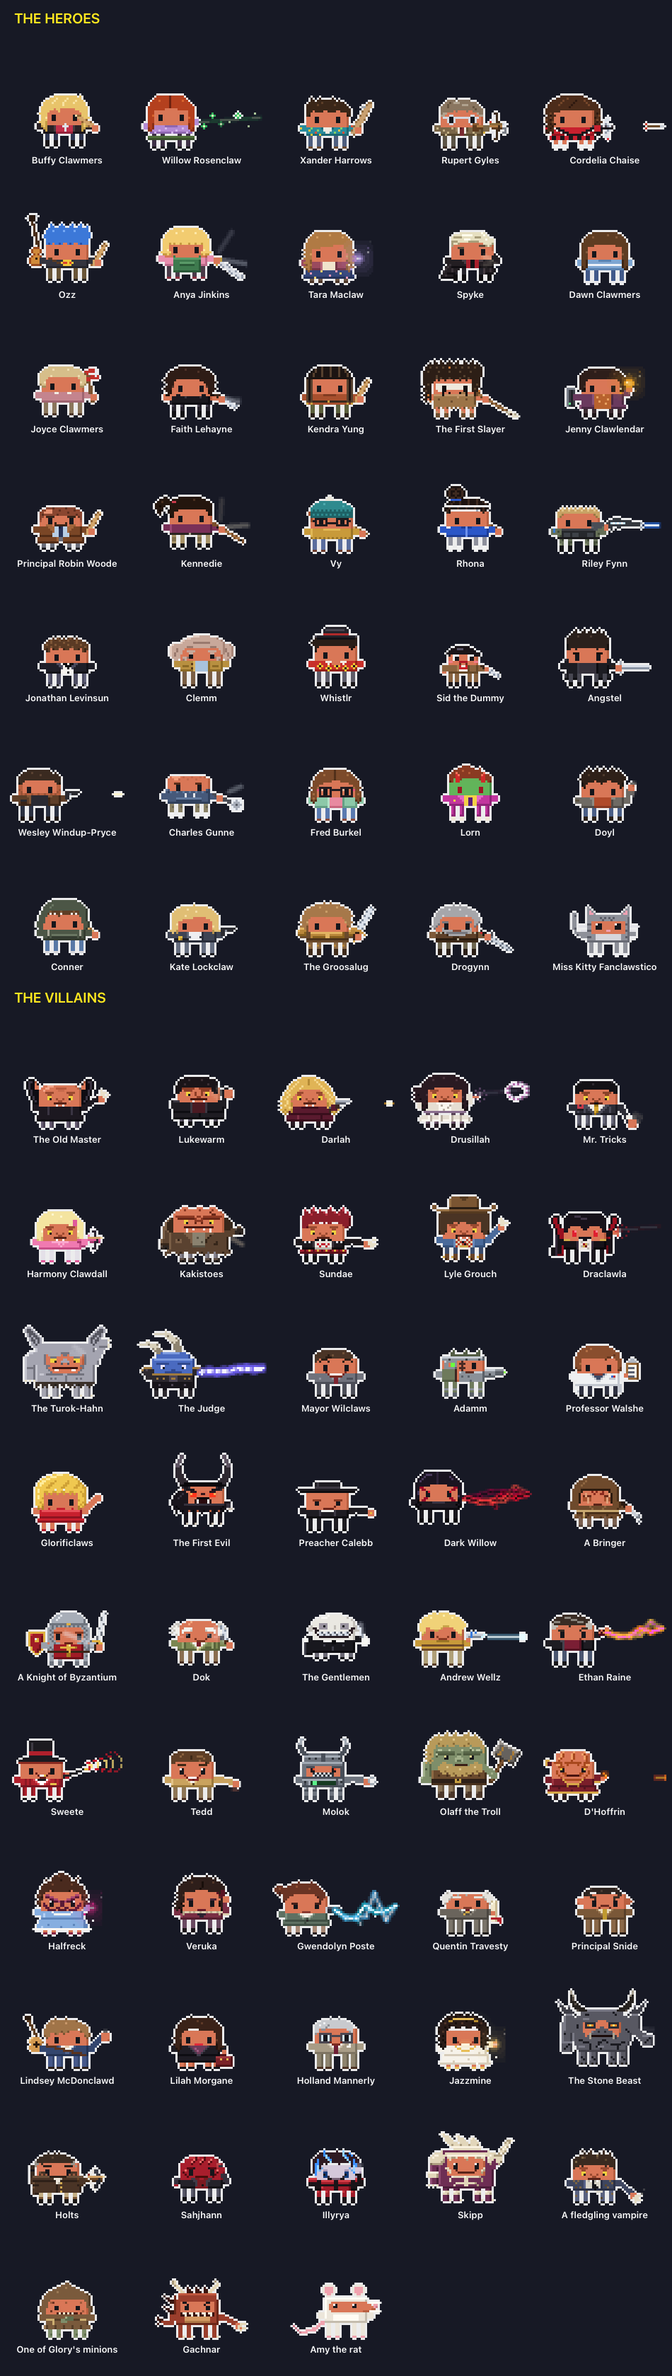
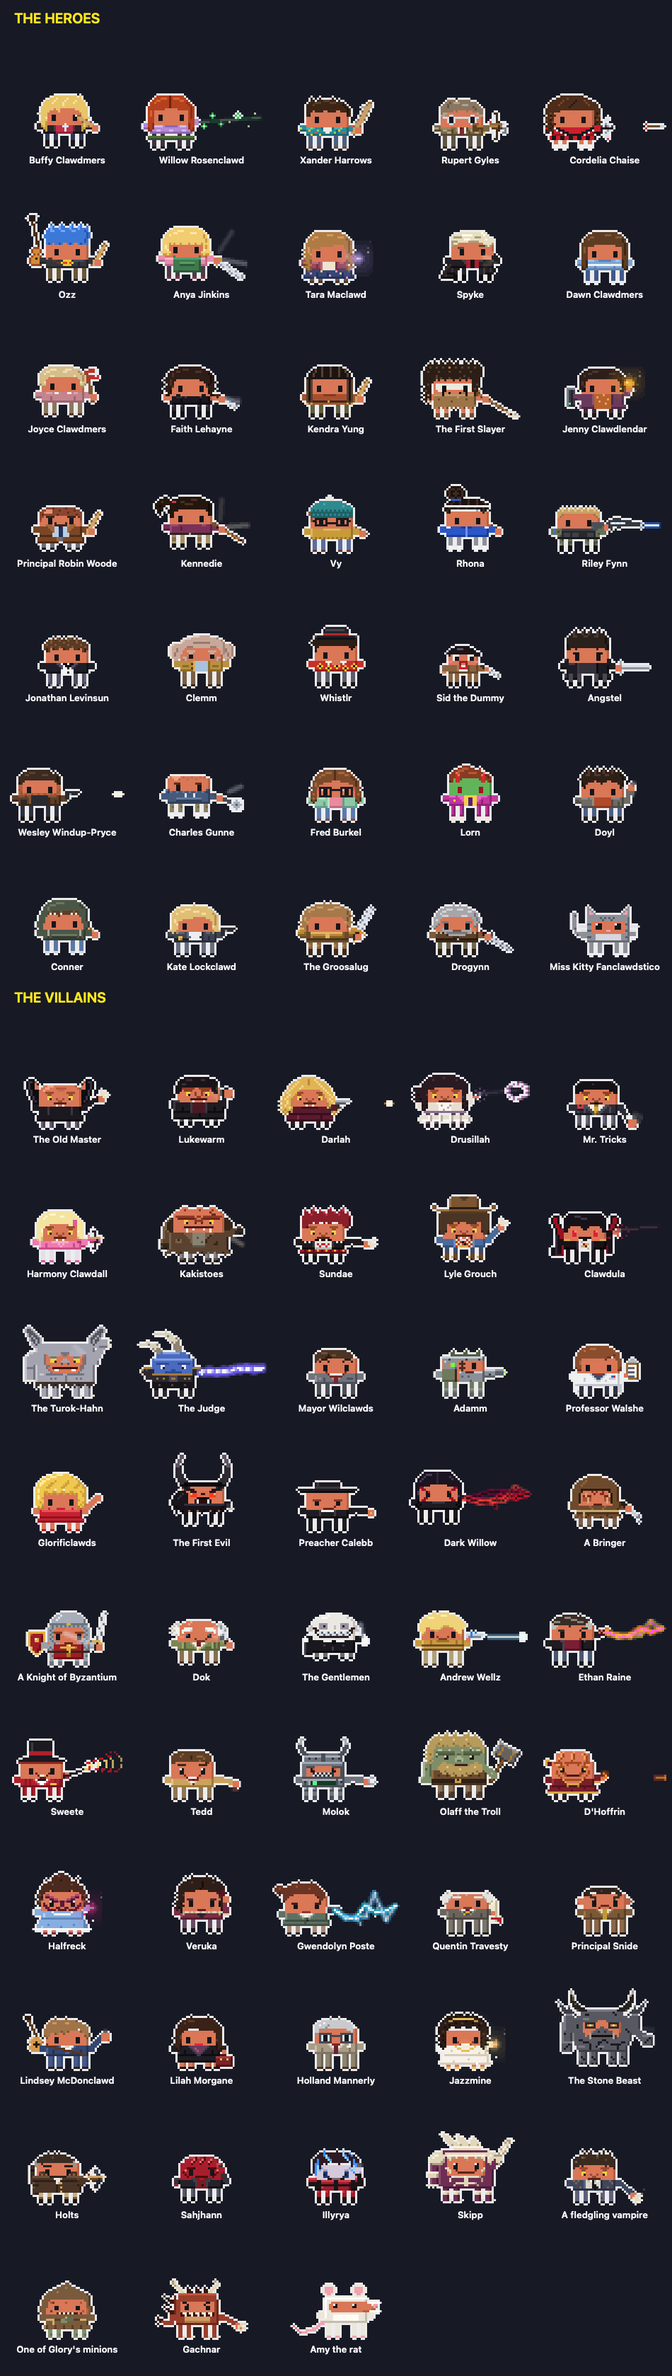
docs: every name says clawd, and the Sunnydale sign in pixels
Clawd Clash 4.0.0 gave the "claw" puns their "d": Buffy, Dawn and Joyce
Clawdmers, Willow Rosenclawd, Tara Maclawd, Jenny Clawdlendar, Kate
Lockclawd, Miss Kitty Fanclawdstico, Mayor Wilclawds, Glorificlawds, and
Draclawla is Clawdula. The README, changelog and llms.txt follow, alt texts
included. The roster, desktop and Tabula Rasa pictures are rendered again
with the new names, and the locations sheet with the pixel Welcome to
Sunnydale sign.

diff --git a/README.md b/README.md
@@ -1,5 +1,5 @@
 <p align="center">
-  <img src="docs/icon.png" width="180" alt="The Clawd Slayer icon: Buffy Clawmers with a wooden stake against the Old Master in Restfield Cemetery under a full moon">
+  <img src="docs/icon.png" width="180" alt="The Clawd Slayer icon: Buffy Clawdmers with a wooden stake against the Old Master in Restfield Cemetery under a full moon">
 </p>
 
 <h1 align="center">Clawd Slayer</h1>
@@ -24,7 +24,7 @@ https://github.com/user-attachments/assets/dd9213e1-7192-4018-b169-ea451f6a146b
 > **Clawd Slayer is a universe of [Clawd Clash](https://github.com/rodclemen/clawd-clash).** Same crew, same fights, more universes to switch to. This page shows off the Clawd Slayer universe; see [Get it](#get-it) to install.
 
 <p align="center">
-  <img src="docs/desktop-clawd-slayer.png" alt="Four Claudes and five agents fighting across the bottom of the screen: the Old Master against Buffy Clawmers, Spyke against Draclawla, with Willow Rosenclaw, Drusillah, Xander Harrows, a fledgling vampire and Rupert Gyles at work as agents">
+  <img src="docs/desktop-clawd-slayer.png" alt="Four Claudes and five agents fighting across the bottom of the screen: the Old Master against Buffy Clawdmers, Spyke against Clawdula, with Willow Rosenclawd, Drusillah, Xander Harrows, a fledgling vampire and Rupert Gyles at work as agents">
 </p>
 
 ---
@@ -71,31 +71,31 @@ Run two Claudes and they square off. Every character is Clawd (Claude Code's lit
 
 Some of them don't fight at all: Dawn, Jonathan, Clemm, Whistlr, Fred, Lorn, the Mayor, Professor Walshe, the First Evil, Quentin Travesty, Principal Snide, Lilah Morgane and Holland Mannerly. The armoured ones (the Judge, the Mayor after the Ascension ritual, Adamm, Preacher Calebb, Tedd, the Knight of Byzantium, Molok, Olaff, the Turok-Hahn, the Stone Beast and more) send shots ricocheting off.
 
-**Arch-enemies face off first.** Whenever a pair is on stage together, everyone else shuffles aside so the two of them can have it out: Buffy and the Old Master, Willow and Glorificlaws, Xander and Dark Willow, Giles and Ethan Raine, Cordelia and Harmony, Ozz and Veruka, Anya and Olaff, Spyke and Draclawla, Faith and Kakistoes, Kendra and Drusillah, Joyce and Tedd, Riley and Adamm, Tara and the Gentlemen, the First Slayer and the First Evil, the Potentials and the Turok-Hahn, Angstel and Holts, Wesley and Lilah, Fred and Illyrya, and more. Angstel and Spyke never lead two sessions back to back.
+**Arch-enemies face off first.** Whenever a pair is on stage together, everyone else shuffles aside so the two of them can have it out: Buffy and the Old Master, Willow and Glorificlawds, Xander and Dark Willow, Giles and Ethan Raine, Cordelia and Harmony, Ozz and Veruka, Anya and Olaff, Spyke and Clawdula, Faith and Kakistoes, Kendra and Drusillah, Joyce and Tedd, Riley and Adamm, Tara and the Gentlemen, the First Slayer and the First Evil, the Potentials and the Turok-Hahn, Angstel and Holts, Wesley and Lilah, Fred and Illyrya, and more. Angstel and Spyke never lead two sessions back to back.
 
 **The school bus.** When an agent is done, it walks off, unless someone comes to pick it up. The yellow school bus from "Chosen" comes for the Scooby Gang, the Slayers and the Potentials, and its folding door opens onto the steps; Spyke's black DeSoto, its windows painted out and papered over, comes for the vampires; Angstel's black convertible, top down, comes for Angel Investigations. Everyone else walks.
 
 <p align="center">
-  <img src="docs/school-bus.png" alt="At 1630 Revello Drive the yellow school bus pulls up beside Willow Rosenclaw, its door folds open, Willow climbs aboard and it drives off" width="900">
+  <img src="docs/school-bus.png" alt="At 1630 Revello Drive the yellow school bus pulls up beside Willow Rosenclawd, its door folds open, Willow climbs aboard and it drives off" width="900">
 </p>
 
 **Tabula Rasa.** When a session led by one of the eight from that episode (Buffy, Willow, Xander, Giles, Anya, Tara, Spyke or Dawn) compacts its context, Willow's forgetting spell goes off: a crystal glows at their feet and puffs pink smoke, a big "?" rises over their head with who they think they are (*"JOAN?"*, *"RANDY?"*, *"ALEX?"* or *"WHO AM I?"*), then the crystal cracks underfoot and it all comes back.
 
 <p align="center">
-  <img src="docs/tabula-rasa.png" alt="In the Magic Box you type /compact in Buffy Clawmers's session: a crystal glows at Buffy's feet, a JOAN? caption and a big question mark rise overhead, then the crystal cracks and the memory comes back" width="900">
+  <img src="docs/tabula-rasa.png" alt="In the Magic Box you type /compact in Buffy Clawdmers's session: a crystal glows at Buffy's feet, a JOAN? caption and a big question mark rise overhead, then the crystal cracks and the memory comes back" width="900">
 </p>
 
-**The First Evil's guises.** Now and then the First Evil becomes one of the Big Bads before it for a few seconds, whole, still floating: the Old Master, the Mayor, Glorificlaws or Adamm.
+**The First Evil's guises.** Now and then the First Evil becomes one of the Big Bads before it for a few seconds, whole, still floating: the Old Master, the Mayor, Glorificlawds or Adamm.
 
 <p align="center">
-  <img src="docs/first-evil.png" alt="In the Hellmouth the First Evil faces Buffy Clawmers, then wears the Old Master, the Mayor and Glory in turn" width="900">
+  <img src="docs/first-evil.png" alt="In the Hellmouth the First Evil faces Buffy Clawdmers, then wears the Old Master, the Mayor and Glory in turn" width="900">
 </p>
 
 **Hush.** While the Gentlemen are on stage, nobody has a voice: every speech bubble comes up empty.
 
 **The full moon.** On nights when the real moon is full, Ozz and Veruka stay wolves all night.
 
-**The Mayor's wet wipe.** After every fight on stage ends, Mayor Wilclaws takes out a packet of wet wipes and cleans up, finger by finger (*"Gosh!"*).
+**The Mayor's wet wipe.** After every fight on stage ends, Mayor Wilclawds takes out a packet of wet wipes and cleans up, finger by finger (*"Gosh!"*).
 
 **Heroes against villains.** Run Claude Code alongside another AI and they pick sides: Claude Code plays the heroes, the others the villains, and each one's agents fight for their own side. The outline colour round each character tells you which AI it belongs to.
 
@@ -103,9 +103,9 @@ Some of them don't fight at all: Dawn, Jonathan, Clemm, Whistlr, Fred, Lorn, the
 
 48 villains and 35 heroes (plus one rare guest), from Buffy the Vampire Slayer and Angel. Nearly all of them can be a session (drawn large) or an agent (drawn small); Miss Kitty and the small fry only ever come as agents. Every one of them has a signature move, and most have an arch-enemy.
 
-**The heroes**: the Scooby Gang: Buffy Clawmers (flips the stake up, it turns over twice in the air, and catches it without looking, *"Beep me if the apocalypse comes."*), Willow Rosenclaw (a pencil floats up off one palm and spins, *"Resolve face!"*), Xander Harrows (lets the 2×4 drop and draws a rocket launcher from behind the back, *"I laugh in the face of danger!"*), Rupert Gyles (polishes the glasses, squinting, *"Oh, dear Lord."*), Cordelia Chaise (a vision hits in a white flash, *"Hel-lo?"*), Ozz (wolfs out for a second, *"Hey."*), Anya Jinkins (counts the takings, dollar signs floating up, *"Bunnies!"*), Tara Maclaw (a little ball of lavender light rises out of cupped hands), Spyke (throws a punch and the chip zaps, *"Bloody hell!"*), Dawn Clawmers (the Key's green energy flickers through) and Joyce Clawmers (arms folded, a mum's look, *"Have you tried not being a Slayer?"*); the Slayers, Watchers and Potentials: Faith Lehayne (twirls the Mayor's knife, *"Five by five."*), Kendra Yung (holds Mr. Pointy up proudly, *"Mr. Pointy."*), the First Slayer (crouches low with the spear while sand swirls, *"No friends. Just the kill."*), Jenny Clawlendar (holds up the Orb of Thessulah, and it slowly lights), Principal Robin Woode (a stake slides out of the sleeve and back up it), Kennedie (blows the drill whistle, clipboard up), Vy (pulls the woolly hat down shyly, then peeks back out) and Rhona (rolls the eyes and throws both arms out: so unfair); the Sunnydale friends: Riley Fynn (stands to attention and salutes, *"Ma'am."*), Jonathan Levinsun (the Class Protector umbrella pops open), Clemm (munches cheesy snacks), Whistlr (flips a coin, a knowing grin) and Sid the Dummy (turns the head right round, all the way); Angel Investigations: Angstel (a felt puppet from "Smile Time" for a second, *"We help the helpless."*), Wesley Windup-Pryce (strikes a pose, pistol to the sky, *"Rogue demon hunter!"*), Charles Gunne (spins the hubcap axe), Fred Burkel (scribbles an equation in the air), Lorn (sings karaoke), Doyl (the half-Brachen face shows, blue and spiky), Conner (springs up and lands in a crouch), Kate Lockclaw (holds up the badge), the Groosalug (the sword thrust up over the head, *"Princess!"*) and Drogynn (just stands the watch). Miss Kitty Fanclawstico, Willow and Tara's kitten, pounces on a ball of red wool. And now and then HEM turns up in a Watcher's tweed jacket and tie, with a wooden stake.
+**The heroes**: the Scooby Gang: Buffy Clawdmers (flips the stake up, it turns over twice in the air, and catches it without looking, *"Beep me if the apocalypse comes."*), Willow Rosenclawd (a pencil floats up off one palm and spins, *"Resolve face!"*), Xander Harrows (lets the 2×4 drop and draws a rocket launcher from behind the back, *"I laugh in the face of danger!"*), Rupert Gyles (polishes the glasses, squinting, *"Oh, dear Lord."*), Cordelia Chaise (a vision hits in a white flash, *"Hel-lo?"*), Ozz (wolfs out for a second, *"Hey."*), Anya Jinkins (counts the takings, dollar signs floating up, *"Bunnies!"*), Tara Maclawd (a little ball of lavender light rises out of cupped hands), Spyke (throws a punch and the chip zaps, *"Bloody hell!"*), Dawn Clawdmers (the Key's green energy flickers through) and Joyce Clawdmers (arms folded, a mum's look, *"Have you tried not being a Slayer?"*); the Slayers, Watchers and Potentials: Faith Lehayne (twirls the Mayor's knife, *"Five by five."*), Kendra Yung (holds Mr. Pointy up proudly, *"Mr. Pointy."*), the First Slayer (crouches low with the spear while sand swirls, *"No friends. Just the kill."*), Jenny Clawdlendar (holds up the Orb of Thessulah, and it slowly lights), Principal Robin Woode (a stake slides out of the sleeve and back up it), Kennedie (blows the drill whistle, clipboard up), Vy (pulls the woolly hat down shyly, then peeks back out) and Rhona (rolls the eyes and throws both arms out: so unfair); the Sunnydale friends: Riley Fynn (stands to attention and salutes, *"Ma'am."*), Jonathan Levinsun (the Class Protector umbrella pops open), Clemm (munches cheesy snacks), Whistlr (flips a coin, a knowing grin) and Sid the Dummy (turns the head right round, all the way); Angel Investigations: Angstel (a felt puppet from "Smile Time" for a second, *"We help the helpless."*), Wesley Windup-Pryce (strikes a pose, pistol to the sky, *"Rogue demon hunter!"*), Charles Gunne (spins the hubcap axe), Fred Burkel (scribbles an equation in the air), Lorn (sings karaoke), Doyl (the half-Brachen face shows, blue and spiky), Conner (springs up and lands in a crouch), Kate Lockclawd (holds up the badge), the Groosalug (the sword thrust up over the head, *"Princess!"*) and Drogynn (just stands the watch). Miss Kitty Fanclawdstico, Willow and Tara's kitten, pounces on a ball of red wool. And now and then HEM turns up in a Watcher's tweed jacket and tie, with a wooden stake.
 
-**The villains**: the vampires: the Old Master (presses both hands on the invisible barrier like a mime, *"Here endeth the lesson."*), Lukewarm (preaches, arms spread wide), Darlah (twirls two pistols), Drusillah (holds up Miss Edith and sways, *"Naming all the stars."*), Mr. Tricks (straightens the gold tie), Harmony Clawdall (the hair flip, *"Blondie Bear!"*), Kakistoes (stamps a hoof and the ground cracks), Sundae (snaps the Class Protector umbrella in two), Lyle Grouch (spins a lasso over the hat), Draclawla (turns to mist with two red eyes in it) and the Turok-Hahn (throws up its arms and roars); the Big Bads: the Judge (one blue hand crackles), Mayor Wilclaws (wet wipes, finger by finger, *"Gosh!"*), Adamm (the chest plates swing open on the glowing core), Professor Walshe (ticks off line after line on a clipboard), Glorificlaws (admires the shoes and flickers into Ben, *"I'm a god!"*), the First Evil (its face flickers through the Big Bads before it, *"From beneath you, it devours."*), Preacher Calebb (rolls up a sleeve and cracks the knuckles) and Dark Willow (the letters lift off a book's page and stream up the arms, *"Bored now."*); henchmen, rivals and monsters of the week: a Bringer (just waits), a Knight of Byzantium (raises the shield, a gleam across it), Dok (a forked lizard tongue flicks out), the Gentlemen (a silent, polite golf clap), Andrew Wellz (films it all on a camcorder), Ethan Raine (holds up the bust of Janus), Sweete (a soft-shoe with the cane), Tedd (*"Mini pizza?"*), Molok (green text scrolls faster and faster across the chest), Olaff the Troll (raises the hammer like a toast, *"Ale!"*), D'Hoffrin (swings the talisman on its chain), Halfreck (the demon face and a burst of pink sparkles, *"Wish granted!"*), Veruka (howls, a wolf for a second), Gwendolyn Poste (the Glove of Myhnegon crackles), Quentin Travesty (unrolls a ruling and reads it out) and Principal Snide (wags a finger, *"Watching you."*); Wolfram & Hart and Angel's foes: Lindsey McDonclawd (picks out a few notes on the guitar), Lilah Morgane (flicks the briefcase open on a contract), Holland Mannerly (offers a hand with a warm, terrible smile), Jazzmine (the gold light bows down, *"Love me."*), the Stone Beast (the sky darkens and the rain of fire drifts down), Holts (doesn't show off), Sahjhann (flickers out of phase), Illyrya (slows time, dust hanging still in the air) and Skipp. And the small fry, only ever agents: a fledgling vampire just out of the grave, one of Glory's minions (bows and scrapes), Gachnar (*"Fear me!"*) and Amy the rat.
+**The villains**: the vampires: the Old Master (presses both hands on the invisible barrier like a mime, *"Here endeth the lesson."*), Lukewarm (preaches, arms spread wide), Darlah (twirls two pistols), Drusillah (holds up Miss Edith and sways, *"Naming all the stars."*), Mr. Tricks (straightens the gold tie), Harmony Clawdall (the hair flip, *"Blondie Bear!"*), Kakistoes (stamps a hoof and the ground cracks), Sundae (snaps the Class Protector umbrella in two), Lyle Grouch (spins a lasso over the hat), Clawdula (turns to mist with two red eyes in it) and the Turok-Hahn (throws up its arms and roars); the Big Bads: the Judge (one blue hand crackles), Mayor Wilclawds (wet wipes, finger by finger, *"Gosh!"*), Adamm (the chest plates swing open on the glowing core), Professor Walshe (ticks off line after line on a clipboard), Glorificlawds (admires the shoes and flickers into Ben, *"I'm a god!"*), the First Evil (its face flickers through the Big Bads before it, *"From beneath you, it devours."*), Preacher Calebb (rolls up a sleeve and cracks the knuckles) and Dark Willow (the letters lift off a book's page and stream up the arms, *"Bored now."*); henchmen, rivals and monsters of the week: a Bringer (just waits), a Knight of Byzantium (raises the shield, a gleam across it), Dok (a forked lizard tongue flicks out), the Gentlemen (a silent, polite golf clap), Andrew Wellz (films it all on a camcorder), Ethan Raine (holds up the bust of Janus), Sweete (a soft-shoe with the cane), Tedd (*"Mini pizza?"*), Molok (green text scrolls faster and faster across the chest), Olaff the Troll (raises the hammer like a toast, *"Ale!"*), D'Hoffrin (swings the talisman on its chain), Halfreck (the demon face and a burst of pink sparkles, *"Wish granted!"*), Veruka (howls, a wolf for a second), Gwendolyn Poste (the Glove of Myhnegon crackles), Quentin Travesty (unrolls a ruling and reads it out) and Principal Snide (wags a finger, *"Watching you."*); Wolfram & Hart and Angel's foes: Lindsey McDonclawd (picks out a few notes on the guitar), Lilah Morgane (flicks the briefcase open on a contract), Holland Mannerly (offers a hand with a warm, terrible smile), Jazzmine (the gold light bows down, *"Love me."*), the Stone Beast (the sky darkens and the rain of fire drifts down), Holts (doesn't show off), Sahjhann (flickers out of phase), Illyrya (slows time, dust hanging still in the air) and Skipp. And the small fry, only ever agents: a fledgling vampire just out of the grave, one of Glory's minions (bows and scrapes), Gachnar (*"Fear me!"*) and Amy the rat.
 
 <p align="center">
   <img src="docs/roster-clawd-slayer.png" alt="The whole Clawd Slayer cast, heroes and villains" width="760">
@@ -116,7 +116,7 @@ Some of them don't fight at all: Dawn, Jonathan, Clemm, Whistlr, Fred, Lorn, the
 Clawd Clash opens in a window by default (switch to the desktop from the menu). The whole crew stands in a scene, and every session gets a card: its project, what it's doing right now, your last prompt, its last reply, and its agents in a little tree underneath.
 
 <p align="center">
-  <img src="docs/window-sunnydale-high-library.png" alt="Window mode in the Sunnydale High Library: Buffy Clawmers and Willow Rosenclaw on Claude Code against the Old Master on Codex, the book cage behind them" width="760">
+  <img src="docs/window-sunnydale-high-library.png" alt="Window mode in the Sunnydale High Library: Buffy Clawdmers and Willow Rosenclawd on Claude Code against the Old Master on Codex, the book cage behind them" width="760">
 </p>
 
 The scene is set **where the first session's character belongs**: the Sunnydale High Library for Buffy, Willow, Xander and Giles, the Bronze for Faith and Harmony, Restfield Cemetery for Kendra and the graveyard vampires, Spyke's crypt for Spyke, the Magic Box for Anya and Tara, the sunken church for the Old Master, the Hyperion Hotel for Angel Investigations, Wolfram & Hart for its lawyers:
@@ -140,7 +140,7 @@ When the scene moves somewhere new, it goes the way the show would: a stake stri
 ## Screen saver
 
 <p align="center">
-  <img src="docs/screensaver-clawd-slayer.png" alt="The screen saver in Restfield Cemetery under a full moon: five sessions' cards over the crew, Buffy Clawmers against the Old Master and Spyke against Draclawla, with Kendra Yung and three agents (Xander Harrows, a fledgling vampire and Anya Jinkins), name tags on everyone, the place's name at the corner" width="900">
+  <img src="docs/screensaver-clawd-slayer.png" alt="The screen saver in Restfield Cemetery under a full moon: five sessions' cards over the crew, Buffy Clawdmers against the Old Master and Spyke against Clawdula, with Kendra Yung and three agents (Xander Harrows, a fledgling vampire and Anya Jinkins), name tags on everyone, the place's name at the corner" width="900">
 </p>
 
 Clawd Clash comes with a screen saver: the place at full screen and the crew fighting across its floor. Every Claude and agent wears a name tag, each session has a card floating above the crew, a clock sits in the corner, and what happened lately crawls along the bottom. Every 10 minutes it travels somewhere new with one of the transitions above. When there's nothing much to watch, it puts on a show instead: a random crew squaring off, heroes against villains. It even shows your sessions with the app closed. Pick **Clawd Slayer** in the screen saver's **Options…** in System Settings.

diff --git a/CHANGELOG.md b/CHANGELOG.md
@@ -2,16 +2,21 @@
 
 The changes you'd notice in the Clawd Slayer universe, newest first. The full, detailed history (every fix, every version) lives in [Clawd Clash](https://github.com/rodclemen/clawd-clash).
 
+## Clawd Clash 4.0.0 (2026-10-23)
+
+- **Every name says "clawd".** The puns that only had "claw" get their "d": Buffy, Dawn and Joyce Clawdmers, Willow Rosenclawd, Tara Maclawd, Jenny Clawdlendar, Kate Lockclawd, Miss Kitty Fanclawdstico, Mayor Wilclawds and Glorificlawds. Draclawla is Clawdula now.
+- **The Welcome to Sunnydale sign** is drawn in pixels, like the rest of the town.
+
 ## Clawd Clash 3.7.0 (2026-10-18)
 
 - **A new universe.** Clawd Slayer joins Star Clawds, Marvelous Clawds, Detective Clawds, Doctor Clawd, The Clawd Files, Stevie Clawdberg and Clawd of the Rings: pick it in **Settings → Universe**, or in the screen saver's Options.
-- **83 characters from Buffy the Vampire Slayer and Angel**, each with a signature move. Buffy Clawmers flipping the stake and catching it without looking, Willow Rosenclaw's floating pencil (*"Resolve face!"*), Xander's rocket launcher, Rupert Gyles polishing the glasses, Spyke's chip zapping mid-punch (*"Bloody hell!"*), the Slayers and the Potentials, and Angel Investigations, Angstel turning into a felt puppet for a second. Facing them, the Old Master pressed against the invisible barrier, Drusillah and Miss Edith, the Mayor's wet wipes, Glorificlaws flickering into Ben, the First Evil, Dark Willow (*"Bored now."*), the Gentlemen, Olaff's hammer and Wolfram & Hart. HEM turns up in a Watcher's tweed jacket with a wooden stake.
+- **83 characters from Buffy the Vampire Slayer and Angel**, each with a signature move. Buffy Clawdmers flipping the stake and catching it without looking, Willow Rosenclawd's floating pencil (*"Resolve face!"*), Xander's rocket launcher, Rupert Gyles polishing the glasses, Spyke's chip zapping mid-punch (*"Bloody hell!"*), the Slayers and the Potentials, and Angel Investigations, Angstel turning into a felt puppet for a second. Facing them, the Old Master pressed against the invisible barrier, Drusillah and Miss Edith, the Mayor's wet wipes, Glorificlawds flickering into Ben, the First Evil, Dark Willow (*"Bored now."*), the Gentlemen, Olaff's hammer and Wolfram & Hart. HEM turns up in a Watcher's tweed jacket with a wooden stake.
 - **20 places**, from the Sunnydale High Library and the Bronze to Restfield Cemetery, the Magic Box, Spyke's crypt, the Hellmouth, Glory's tower, the Doublemeat Palace, the Hyperion Hotel, Caritas and Wolfram & Hart, each with something moving in it.
 - **Rides:** the yellow school bus picks up the Scooby Gang, the Slayers and the Potentials, Spyke's painted-out DeSoto the vampires, Angstel's convertible Angel Investigations; everyone else walks.
 - **Tabula Rasa.** When one of that episode's eight compacts its context, Willow's forgetting spell goes off: a crystal glows, they don't know who they are (*"JOAN?"*), then it cracks and it all comes back.
 - **Hush**: with the Gentlemen on stage, every speech bubble comes up empty. **The full moon**: on nights the real moon is full, Ozz and Veruka stay wolves.
-- **The First Evil** now and then becomes one of the Big Bads before it for a few seconds: the Old Master, the Mayor, Glorificlaws or Adamm.
+- **The First Evil** now and then becomes one of the Big Bads before it for a few seconds: the Old Master, the Mayor, Glorificlawds or Adamm.
 - **Thirteen transitions** from the show: the opening titles, Dusting, the Watcher's tome, Willow's spell, Bored Now, the Hellmouth, Hush, Once More With Feeling, sunrise, the Key's portal, the coat swish, the lift at Wolfram & Hart and Restless.
-- **Arch-enemies face off first** (Buffy and the Old Master, Willow and Glorificlaws, Xander and Dark Willow, Giles and Ethan Raine, Spyke and Draclawla…), and Angstel and Spyke never lead two sessions back to back.
+- **Arch-enemies face off first** (Buffy and the Old Master, Willow and Glorificlawds, Xander and Dark Willow, Giles and Ethan Raine, Spyke and Clawdula…), and Angstel and Spyke never lead two sessions back to back.
 - **Clawd Royale**: Clawd Slayer's cast joins everyone else's in one scene when you pick Clawd Royale.
 - **A trailer of its own**, at the top of this page.
